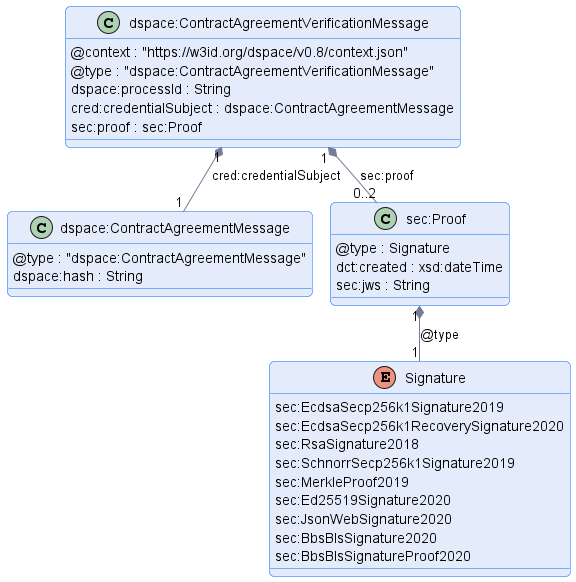
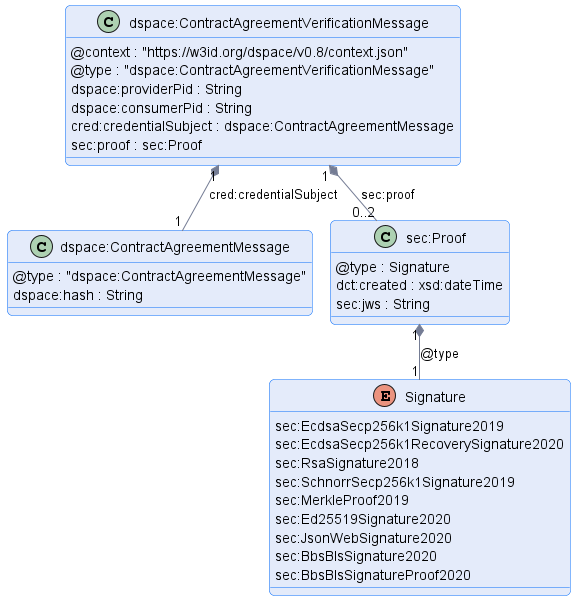
feat(CN): change processId to providerPid and consumerPid (#151)
* feat(CN): change processId to providerPid and consumerPid

* chore(CN): update https binding accordingly

* chore(CN): remove location header and negotiation.id

* chore: apply feedback

Changed region(s): [[0.0, 0.0, 1.0, 1.0]]

diff --git a/negotiation/contract.negotiation.binding.https.md b/negotiation/contract.negotiation.binding.https.md
@@ -20,11 +20,12 @@ The OpenAPI definitions for this specification can be accessed [here](TBD).
 In the event of a client request error, the connector must return an appropriate HTTP 4xx client error code. If an error body is returned it must be
 a [ContractNegotiationError](./message/contract-negotiation-error.json) with the following properties:
 
-| Field         | Type          | Description                                                 |
-|---------------|---------------|-------------------------------------------------------------|
-| processId     | UUID          | The contract negotiation unique id.                         |
-| code          | string        | An optional implementation-specific error code.             |
-| reasons       | Array[object] | An optional array of implementation-specific error objects. |
+| Field       | Type          | Description                                                 |
+|-------------|---------------|-------------------------------------------------------------|
+| consumerPid | UUID          | The contract negotiation unique id on consumer side.        |
+| providerPid | UUID          | The contract negotiation unique id on provider side.        |
+| code        | string        | An optional implementation-specific error code.             |
+| reasons     | Array[object] | An optional array of implementation-specific error objects. |
 
 ### 2.2.1 State transition errors
 
@@ -33,7 +34,7 @@ an HTTP code 400 (Bad Request) with an `ContractNegotiationError` in the respons
 
 ### 2.3 Authorization
 
-All requests should use the `Authorizartion` header to include an authorization token. The semantics of such tokens are not part of this specification. The `Authorization` HTTP
+All requests should use the `Authorization` header to include an authorization token. The semantics of such tokens are not part of this specification. The `Authorization` HTTP
 header is optional if the connector does not require authorization.
 
 ### 2.4 The provider `negotiations` resource
@@ -41,7 +42,7 @@ header is optional if the connector does not require authorization.
 #### 2.4.1 GET
 
 ```
-GET https://connector.provider.com/negotiations/:id
+GET https://connector.provider.com/negotiations/:providerPid
 
 Authorization: ...
 
@@ -53,8 +54,9 @@ the [ContractNegotiation](./message/contract-negotiation.json):
 ```
 {
   "@context": "https://w3id.org/dspace/v0.8/context.json",
-  "@type": "dspace:ContractNegotiation"
-  "@id": "urn:uuid:dcbf434c-eacf-4582-9a02-f8dd50120fd3",
+  "@type": "dspace:ContractNegotiation",
+  "dspace:providerPid": "urn:uuid:dcbf434c-eacf-4582-9a02-f8dd50120fd3",
+  "dspace:consumerPid": "urn:uuid:32541fe6-c580-409e-85a8-8a9a32fbe833",
   "dspace:state" :"REQUESTED"
 }  
 ```
@@ -68,7 +70,7 @@ If the negotiation does not exist or the client is not authorized, the provider 
 #### 2.5.1 POST
 
 A contract negotiation is started and placed in the `REQUESTED` state when a consumer POSTs
-a [ContractRequestMessage](./contract.negotiation.protocol.md#1-contractrequestmessage)to `negotiations/request`:
+a [ContractRequestMessage](./message/contract-request-message_initial.json) to `negotiations/request`:
 
 ```
 POST https://connector.provider.com/negotiations/request
@@ -78,7 +80,7 @@ Authorization: ...
 {
   "@context": "https://w3id.org/dspace/v0.8/context.json",
   "@type": "dspace:ContractRequest"
-  "@id": "urn:uuid:dcbf434c-eacf-4582-9a02-f8dd50120fd3",
+  "dspace:consumerPid": "urn:uuid:32541fe6-c580-409e-85a8-8a9a32fbe833",
   "dspace:dataset": "urn:uuid:3dd1add8-4d2d-569e-d634-8394a8836a88",
   "dspace:offerId": "urn:uuid:2828282:3dd1add8-4d2d-569e-d634-8394a8836a88",
   "dspace:callbackAddress": "https://..."
@@ -91,29 +93,24 @@ required. Implementations may optionally support other URL schemes.
 Callback messages will be sent to paths under the base URL as described by this specification. Note that provider connectors should properly handle the cases where a trailing `/`
 is included with or absent from the `callbackAddress` when resolving full URL.
 
-The @id is the correlation id that will be used for callback messages.
-
-The provider connector must return an HTTP 201 (Created) response with the location header set to the location of the contract negotiation and a body containing
-the [ContractNegotiation](./message/contract-negotiation.json) message:
+The provider connector must return an HTTP 201 (Created) response with a body containing
+the [ContractNegotiation](./message/contract-negotiation.json):
 
 ```
-Location: /negotiations/urn:uuid:dcbf434c-eacf-4582-9a02-f8dd50120fd3
-
 {
   "@context": "https://w3id.org/dspace/v0.8/context.json",
   "@type": "dspace:ContractNegotiation"
-  "@id": "urn:uuid:dcbf434c-eacf-4582-9a02-f8dd50120fd3",
+  "dspace:providerPid": "urn:uuid:dcbf434c-eacf-4582-9a02-f8dd50120fd3",
+  "dspace:consumerPid": "urn:uuid:32541fe6-c580-409e-85a8-8a9a32fbe833",
   "dspace:state" :"REQUESTED"
 }
 ```
 
-Note that if the location header is not an absolute URL, it must resolve to an address that is relative to the base address of the request.
-
-### 2.6 The provider `negotiations/:id/request` resource
+### 2.6 The provider `negotiations/:providerPid/request` resource
 
 #### 2.6.1 POST
 
-A consumer may make an offer by POSTing a [ContractRequestMessage](./message/contract-request-message.json) to `negotiations/:id/request`:
+A consumer may make an offer by POSTing a [ContractRequestMessage](./message/contract-request-message.json) to `negotiations/:providerPid/request`:
 
 ```
 POST https://connector.provider.com/negotiations/urn:uuid:dcbf434c-eacf-4582-9a02-f8dd50120fd3/offers
@@ -123,7 +120,8 @@ Authorization: ...
 {
   "@context": "https://w3id.org/dspace/v0.8/context.jsonn",
   "@type": "dspace:ContractRequestMessage",
-  "dspace:processId": "urn:uuid:dcbf434c-eacf-4582-9a02-f8dd50120fd3",
+  "dspace:providerPid": "urn:uuid:dcbf434c-eacf-4582-9a02-f8dd50120fd3",
+  "dspace:consumerPid": "urn:uuid:32541fe6-c580-409e-85a8-8a9a32fbe833",
   "dspace:offer": {
     "@type": "odrl:Offer",
     "@id": "...",
@@ -132,22 +130,22 @@ Authorization: ...
 }
 ```
 
-The consumer must include the `processId`. The consumer must include either the `offer` or `offerId` property.
+The consumer must include the `providerPid` and `consumerPid`. The consumer must include either the `offer` or `offerId` property.
 
 If the message is successfully processed, the provider connector must return and HTTP 200 (OK) response. The response body is not specified and clients are not required to process
 it.
 
-### 2.7 The provider `negotiations/:id/events` resource
+### 2.7 The provider `negotiations/:providerPid/events` resource
 
 #### 2.7.1 POST
 
-A consumer connector can POST a [ContractNegotiationEventMessage](./message/contract-negotiation-event-message.json) to `negotiations/:id/events` to accept the current
+A consumer connector can POST a [ContractNegotiationEventMessage](./message/contract-negotiation-event-message.json) to `negotiations/:providerPid/events` to accept the current
 provider contract offer. If the negotiation state is successfully transitioned, the provider must return HTTP code 200 (OK). The response body is not specified and clients are not
 required to process it.
 
 If the current contract offer was created by the consumer, the provider must return HTTP code 400 (Bad Request) with an `NegotiationErrorMessage` in the response body.
 
-### 2.8 The provider `negotiations/:id/agreement/verification` resource
+### 2.8 The provider `negotiations/:providerPid/agreement/verification` resource
 
 #### 2.8.1 POST
 
@@ -162,7 +160,8 @@ Authorization: ...
 {
   "@context": "https://w3id.org/dspace/v0.8/context.json",
   "@type": "dspace:ContractAgreementVerificationMessage",
-  "dspace:processId": "urn:uuid:a343fcbf-99fc-4ce8-8e9b-148c97605aab",
+  "dspace:providerPid": "urn:uuid:dcbf434c-eacf-4582-9a02-f8dd50120fd3",
+  "dspace:consumerPid": "urn:uuid:32541fe6-c580-409e-85a8-8a9a32fbe833",
   "dspace:consumerSignature": {
     "timestamp": 121212,
     "hash": "...",
@@ -172,7 +171,7 @@ Authorization: ...
 
 ```
 
-### 2.9 The provider `negotiations/:id/termination` resource
+### 2.9 The provider `negotiations/:providerPid/termination` resource
 
 #### 2.9.1 POST
 
@@ -184,15 +183,15 @@ state is successfully transitioned, the provider must return HTTP code 200 (OK).
 ### 3.1 Prerequisites
 
 All callback paths are relative to the `callbackAddress` base URL specified in the `ContractRequestMessage` that initiated a contract negotiation. For example, if
-the `callbackAddress` is specified as `https://connector.consumer/callback` and a callback path binding is `negotiations/:id/offers`, the resolved URL will
-be `https://connector.consumer.com/callback/negotiations/:id/offers`.
+the `callbackAddress` is specified as `https://connector.consumer/callback` and a callback path binding is `negotiations/:consumerPid/offers`, the resolved URL will
+be `https://connector.consumer.com/callback/negotiations/:consumerPid/offers`.
 
 ### 3.2 The consumer `negotiations/offers` resource
 
 #### 3.2.1 POST
 
 A contract offer is started and placed in the `OFFERED` state when a provider POSTs a
-[ContractOfferMessage](./message/contract-offer-message.json) to `negotiations/offers`:
+[ContractOfferMessage](./message/contract-offer-message_initial.json) to `negotiations/offers`:
 
 ```
 POST https://connector.provider.com/negotiations/offers
@@ -202,7 +201,7 @@ Authorization: ...
 {
   "@context": "https://w3id.org/dspace/v0.8/context.json",
   "@type": "dspace:ContractOfferMessage"
-  "@id": "urn:uuid:dcbf434c-eacf-4582-9a02-f8dd50120fd3",
+  "dspace:providerPid": "urn:uuid:dcbf434c-eacf-4582-9a02-f8dd50120fd3",
   "dspace:dataset": "urn:uuid:3dd1add8-4d2d-569e-d634-8394a8836a88",
   "dspace:offer": {
     "@type": "odrl:Offer",
@@ -213,42 +212,38 @@ Authorization: ...
 }
 ```
 
-The callbackAddress property specifies the base endpoint URL where the client receives messages associated with the contract negotiation. Support for the HTTPS scheme is required. Implementations may optionally support other URL schemes.
+The `callbackAddress` property specifies the base endpoint URL where the client receives messages associated with the contract negotiation. Support for the HTTPS scheme is required. Implementations may optionally support other URL schemes.
 
 Callback messages will be sent to paths under the base URL as described by this specification. Note that consumer connectors should properly handle the cases where a trailing / is included with or absent from the callbackAddress when resolving full URL.
 
-The @id is the correlation id that will be used for callback messages.
-
-The consumer connector must return an HTTP 201 (Created) response with the location header set to the location of the contract negotiation and a body containing the ContractNegotiation message:
+The consumer connector must return an HTTP 201 (Created) response with a body containing the `ContractNegotiation`:
 
 ```
-Location: /negotiations/urn:uuid:dcbf434c-eacf-4582-9a02-f8dd50120fd3
-
 {
   "@context": "https://w3id.org/dspace/v0.8/context.json",
   "@type": "dspace:ContractNegotiation"
-  "@id": "urn:uuid:dcbf434c-eacf-4582-9a02-f8dd50120fd3",
+  "dspace:providerPid": "urn:uuid:dcbf434c-eacf-4582-9a02-f8dd50120fd3",
+  "dspace:consumerPid": "urn:uuid:32541fe6-c580-409e-85a8-8a9a32fbe833",
   "dspace:state" :"OFFERED"
 }
 ```
 
-Note that if the location header is not an absolute URL, it must resolve to an address that is relative to the base address of the Offer.
-
-### 3.3 The consumer `negotiations/:id/offers` resource
+### 3.3 The consumer `negotiations/:consumerPid/offers` resource
 
 #### 3.3.1 POST
 
-A provider may make an offer by POSTing a [ContractOfferMessage](./message/contract-offer-message.json) to the `negotiations/:id/offers` callback:
+A provider may make an offer by POSTing a [ContractOfferMessage](./message/contract-offer-message.json) to the `negotiations/:consumerPid/offers` callback:
 
 ```
-POST https://connector.consumer.com/callback/negotiations/urn:uuid:dcbf434c-eacf-4582-9a02-f8dd50120fd3/offers
+POST https://connector.consumer.com/callback/negotiations/urn:uuid:32541fe6-c580-409e-85a8-8a9a32fbe833/offers
 
 Authorization: ...
 
 {
   "@context": "https://w3id.org/dspace/v0.8/context.json",
   "@type": "dspace:ContractOfferMessage",
-  "dspace:processId": "urn:uuid:dcbf434c-eacf-4582-9a02-f8dd50120fd3",
+  "dspace:providerPid": "urn:uuid:dcbf434c-eacf-4582-9a02-f8dd50120fd3",
+  "dspace:consumerPid": "urn:uuid:32541fe6-c580-409e-85a8-8a9a32fbe833",
   "dspace:offer": {
     "@type": "odrl:Offer",
     "@id": "...",
@@ -260,22 +255,23 @@ Authorization: ...
 If the message is successfully processed, the consumer provider connector must return an HTTP 200 (OK) response. The response body is not specified and clients are not required to
 process it.
 
-### 3.4 The consumer `negotiations/:id/agreement` resource
+### 3.4 The consumer `negotiations/:consumerPid/agreement` resource
 
 #### 3.4.1 POST
 
-The provider connector can POST a [ContractAgreementMessage](./message/contract-agreement-message.json) to the `negotiations/:id/agreement` callback to create an agreement. If the
+The provider connector can POST a [ContractAgreementMessage](./message/contract-agreement-message.json) to the `negotiations/:consumerPid/agreement` callback to create an agreement. If the
 negotiation state is successfully transitioned, the consumer must return HTTP code 200 (OK). The response body is not specified and clients are not required to process it.
 
 ```
-POST https://connector.consumer.com/negotiations/urn:uuid:a343fcbf-99fc-4ce8-8e9b-148c97605aab/agreement
+POST https://connector.consumer.com/negotiations/urn:uuid:32541fe6-c580-409e-85a8-8a9a32fbe833/agreement
 
 Authorization: ...
 
 {
   "@context": "https://w3id.org/dspace/v0.8/context.json",
   "@type": "dspace:ContractAgreementMessage",
-  "dspace:processId": "urn:uuid:a343fcbf-99fc-4ce8-8e9b-148c97605aab",
+  "dspace:providerPid": "urn:uuid:dcbf434c-eacf-4582-9a02-f8dd50120fd3",
+  "dspace:consumerPid": "urn:uuid:32541fe6-c580-409e-85a8-8a9a32fbe833",
   "dspace:agreement": {
     "@type": "odrl:Agreement",
     "@id": "e8dc8655-44c2-46ef-b701-4cffdc2faa44",
@@ -286,15 +282,15 @@ Authorization: ...
 }
 ```
 
-### 3.5 The consumer `negotiations/:id/events` resource
+### 3.5 The consumer `negotiations/:consumerPid/events` resource
 
 #### 3.5.1 POST
 
-A provider can POST a [ContractNegotiationEventMessage](./message/contract-negotiation-event-message.json) to the `negotiations/:id/events` callback with an `eventType`
+A provider can POST a [ContractNegotiationEventMessage](./message/contract-negotiation-event-message.json) to the `negotiations/:consumerPid/events` callback with an `eventType`
 of `FINALIZED` to finalize a contract agreement. If the negotiation state is successfully transitioned, the consumer must return HTTP code 200 (OK). The response body is not
 specified and clients are not required to process it. 
 
-### 3.6 The consumer `negotiations/:id/termination` resource
+### 3.6 The consumer `negotiations/:consumerPid/termination` resource
 
 #### 3.6.1 POST
 

diff --git a/negotiation/contract.negotiation.protocol.md b/negotiation/contract.negotiation.protocol.md
@@ -58,7 +58,7 @@ The CN state machine is transitioned upon receipt and acknowledgement of a messa
 
 **Resulting State**: REQUESTED, TERMINATED
 
-**Example**: [ContractRequestMessage](./message/contract-request-message.json)
+**Example**: [Initiating ContractRequestMessage](./message/contract-request-message_initial.json), [ContractRequestMessage](./message/contract-request-message.json)
 
 **Response**: [ACK or ERROR.](#response-types)
 
@@ -66,13 +66,13 @@ The CN state machine is transitioned upon receipt and acknowledgement of a messa
 
 #### Description
 
-The `ContractRequestMessage` is sent by a consumer to initiate a contract negotiation.
+The `ContractRequestMessage` is sent by a consumer to initiate a contract negotiation or to respond to a `ContractOfferMessage` sent by a provider.
 
 #### Notes
 
-- The consumer must include an `offer` property, which itself must have a `@id` property. If the message includes a `processId` property, the request will be associated with an existing contract
-  negotiation and a consumer offer will be created using either the `offer` or `offer.@id` properties. If the message does not include a `processId`, a new contract negotiation
-  will be created using either the `offer` or `offer.@id` properties and the provider selects an appropriate `processId`.
+- The consumer must include an `offer` property, which itself must have a `@id` property. If the message includes a `providerPid` property, the request will be associated with an existing contract
+  negotiation and a consumer offer will be created using either the `offer` or `offer.@id` properties. If the message does not include a `providerPid`, a new contract negotiation
+  will be created on provider side using either the `offer` or `offer.@id` properties and the provider selects an appropriate `providerPid`.
 
 - An `offer.@id` will generally refer to an offer contained in a catalog. If the provider is not aware of the `offer.@id` value, it must respond with an error message.
 
@@ -90,7 +90,7 @@ The `ContractRequestMessage` is sent by a consumer to initiate a contract negoti
 
 **Resulting State**: OFFERED, TERMINATED
 
-**Example**: [ContractOfferMessage](./message/contract-offer-message.json)
+**Example**: [Initiating ContractOfferMessage](./message/contract-offer-message_initial.json), [ContractOfferMessage](./message/contract-offer-message.json)
 
 **Response**: [ACK or ERROR.](#response-types)
 
@@ -98,7 +98,12 @@ The `ContractRequestMessage` is sent by a consumer to initiate a contract negoti
 
 #### Description
 
-The `ContractOfferMessage` is sent by a provider to initiate a contract negotiation.
+The `ContractOfferMessage` is sent by a provider to initiate a contract negotiation or to respond to a `ContractRequestMessage` sent by a consumer.
+
+### Notes
+
+If the message includes a `consumerPid` property, the request will be associated with an existing contract negotiation. If the message does not include a `consumerPid`, a new contract negotiation
+will be created on consumer side and the consumer selects an appropriate `consumerPid`.
 
 #### Notes
 
@@ -122,7 +127,7 @@ The `ContractOfferMessage` is sent by a provider to initiate a contract negotiat
 
 The `ContractAgreementMessage` is sent by a provider when it agrees to a contract. It contains the complete contract agreement with the provider's signature.
 
-A `ContractAgreementMessage` must contain a `processId`.
+A `ContractAgreementMessage` must contain a `consumerPid` and a `providerPid`.
 
 A `ContractAgreementMessage` must contain an ODRL `Agreement`.
 
@@ -153,7 +158,7 @@ contract (i.e. the "connectors").
 The `ContractAgreementVerificationMessage` is sent by a consumer to verify the acceptance of a contract agreement. A provider responds with an error if the signature can't be
 validated or is incorrect.
 
-A `ContractAgreementVerificationMessage` must contain a `processId`.
+A `ContractAgreementVerificationMessage` must contain a `consumerPid` and a `providerPid`.
 
 ### 5. ContractNegotiationEventMessage
 
@@ -185,6 +190,8 @@ It is an error for a provider to send a `ContractNegotiationEventMessage` with a
 Note that contract events are not intended for propagation of agreement state after a contract negotiation has entered a terminal state. It is considered an error for a consumer or
 provider to send a contract negotiation event after the negotiation state machine has entered a terminal state.
 
+A `ContractNegotiationEventMessage` must contain a `consumerPid` and a `providerPid`.
+
 ### 6. ContractNegotiationTerminationMessage
 
 ![](./message/diagram/contract-negotiation-termination-message.png)
@@ -203,6 +210,8 @@ provider to send a contract negotiation event after the negotiation state machin
 
 The `ContractNegotiationTerminationMessage` is sent by a consumer or provider indicating it has cancelled the negotiation sequence. The message can be sent at any state of a negotiation
 without providing an explanation. Nevertheless, the sender may provide a description to help the receiver.
+
+A `ContractNegotiationTerminationMessage` must contain a `consumerPid` and a `providerPid`.
 
 #### Notes
 
@@ -230,8 +239,7 @@ without providing an explanation. Nevertheless, the sender may provide a descrip
 
 #### Description
 
-The `ContractNegotiation` is an object returned by a consumer or provider indicating a
-successful state change happened.
+The `ContractNegotiation` is an object returned by a consumer or provider indicating a successful state change happened.
 
 ### ERROR - ContractNegotiationError
 
